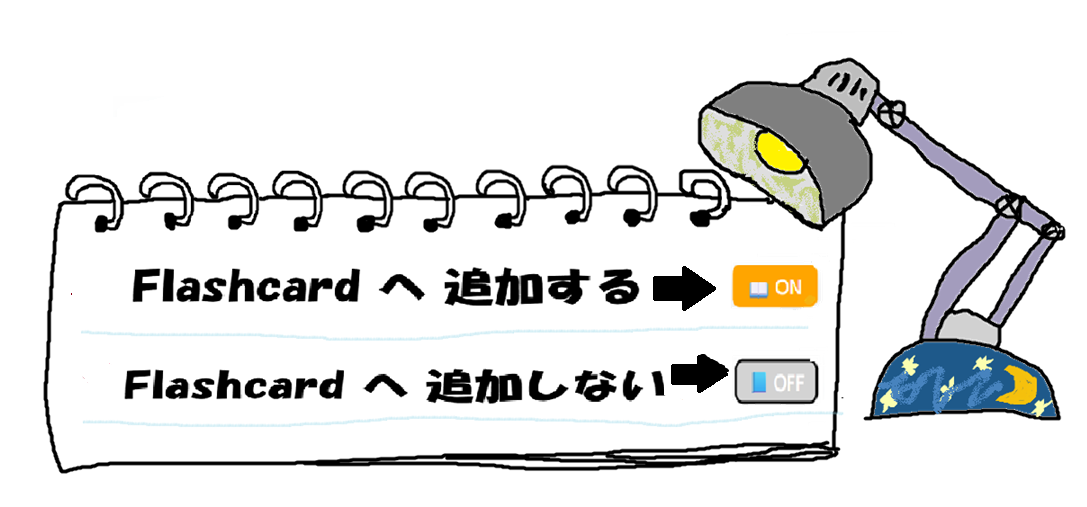
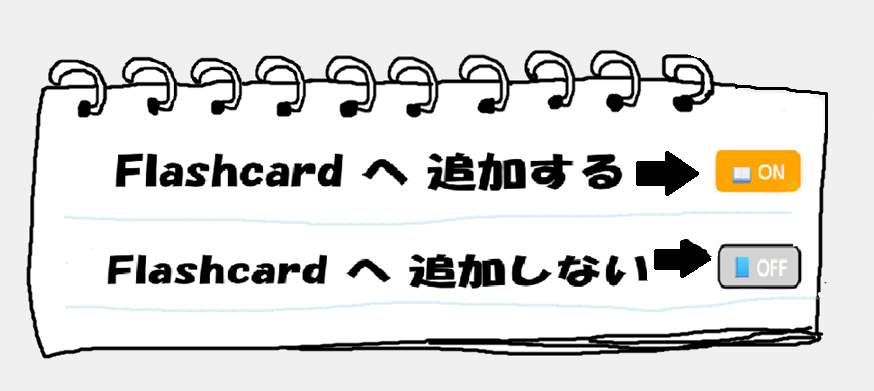
編集完了

diff --git a/src/components/NotebookDetail.jsx b/src/components/NotebookDetail.jsx
@@ -2,6 +2,8 @@ import React, { useState, useEffect } from "react";
 import WordCard from "./WordCard";
 import AddWordForm from "./AddWordForm";
 import "./NotebookDetail.css";
+import Light01 from "../assets/Light01.png";
+
 
 function NotebookDetail({ notebook, onBack, onAddWord, onDeleteWord, onStartQuiz }) {
   if (!notebook) {
@@ -37,7 +39,19 @@ function NotebookDetail({ notebook, onBack, onAddWord, onDeleteWord, onStartQuiz
 
   return (
     <div className="notebook-detail">
+  {/* ライトのイラスト追加 */}
+       <img
+      src={Light01}
+      alt="icon"
+      className="corner-icon"
+    />
+
       <h2>{notebook.title}</h2>
+
+
+
+  
+
 
       <div className="notebook-buttons">
         <button onClick={onBack} className="action-button">Back</button>

diff --git a/src/components/AddNotebook.jsx b/src/components/AddNotebook.jsx
@@ -12,6 +12,11 @@ function AddNotebook({ onAdd }) {
     //空欄なら何もしない
     if (title.trim() === '') return;
 
+    // 文字数オーバーなら警告
+    if (title.length > 10) {
+    alert("タイトルは10文字以内にしてください");
+    return;
+  }
     // 親(App.jsx)に新しいノートのタイトルを渡す
     onAdd(title);
 
@@ -26,6 +31,7 @@ function AddNotebook({ onAdd }) {
         type="text"
         placeholder="Please enter a title of this note ☞"
         value={title}                     // ← 入力欄の中身
+         maxLength={10}   // ← 文字数を10文字までに制限
         onChange={(e) => setTitle(e.target.value)}  // ← 入力が変わったら更新
       />
 

diff --git a/src/components/NotebookDetail.css b/src/components/NotebookDetail.css
@@ -72,6 +72,14 @@ button.flashcard {
   color: #222;
   
 }
-
-
-
+.notebook-detail {
+  position: relative;  
+}
+.corner-icon {
+  position: absolute;
+  top: 20px;
+  right: 15px;
+  width: 110px;
+  height: 110px;
+  object-fit: cover;
+}

diff --git a/src/App.css b/src/App.css
@@ -60,7 +60,7 @@ button.delete-button {
 /* notice 画像 */
 .notice{
   width: 100%;
-  max-width: 400px;
+  max-width: 460px;
   height: auto;
   display: block;
   margin: 10px auto 20px;
